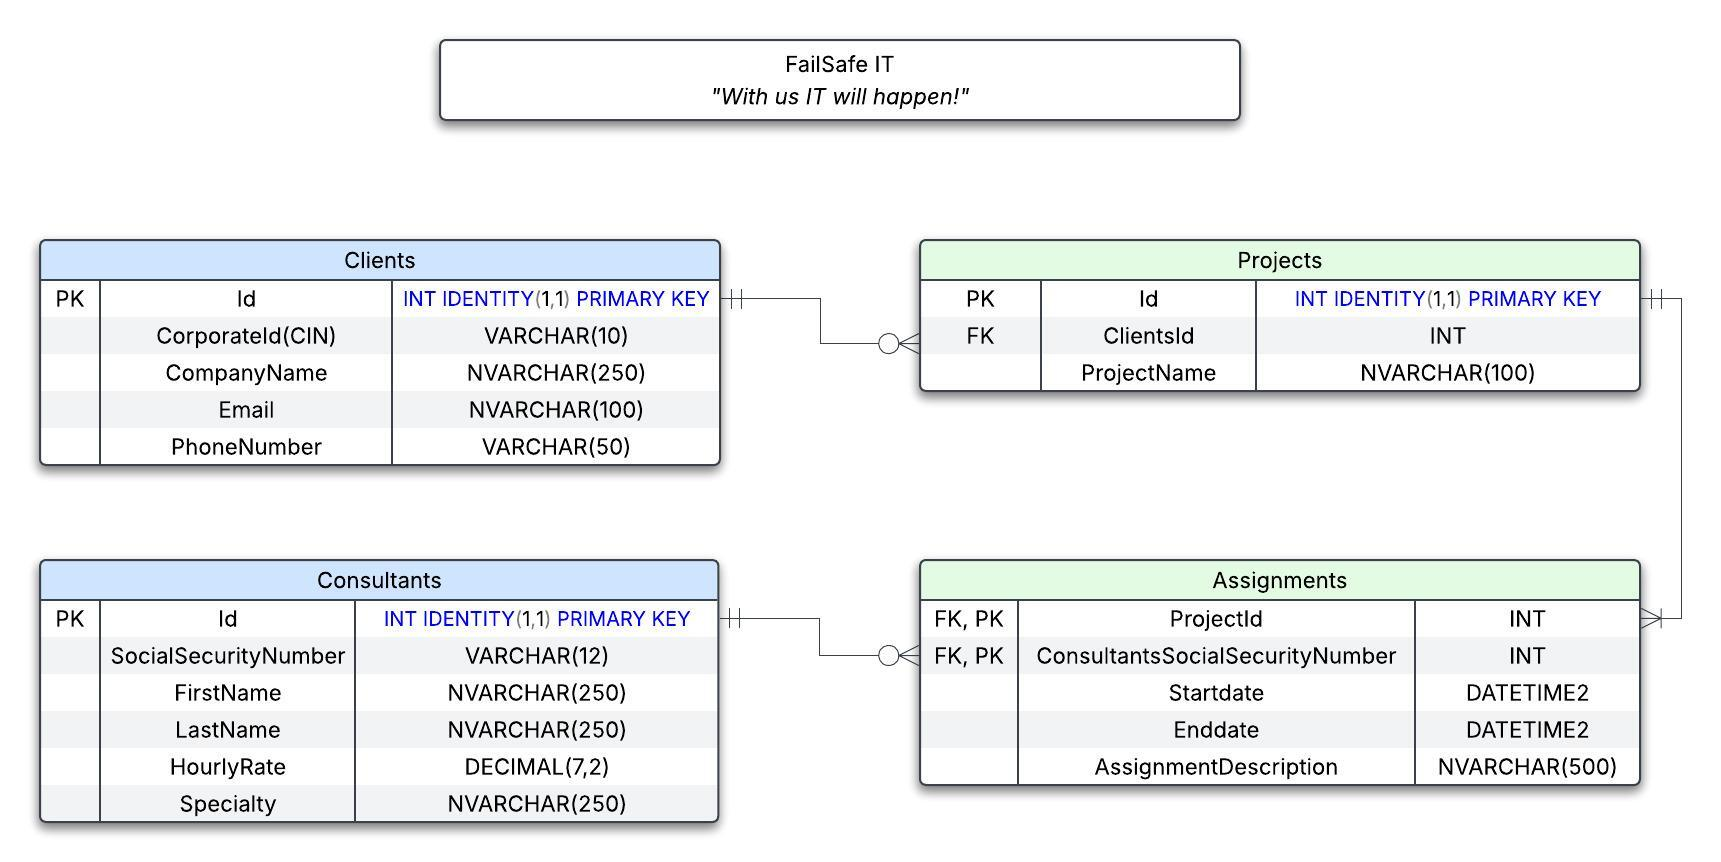
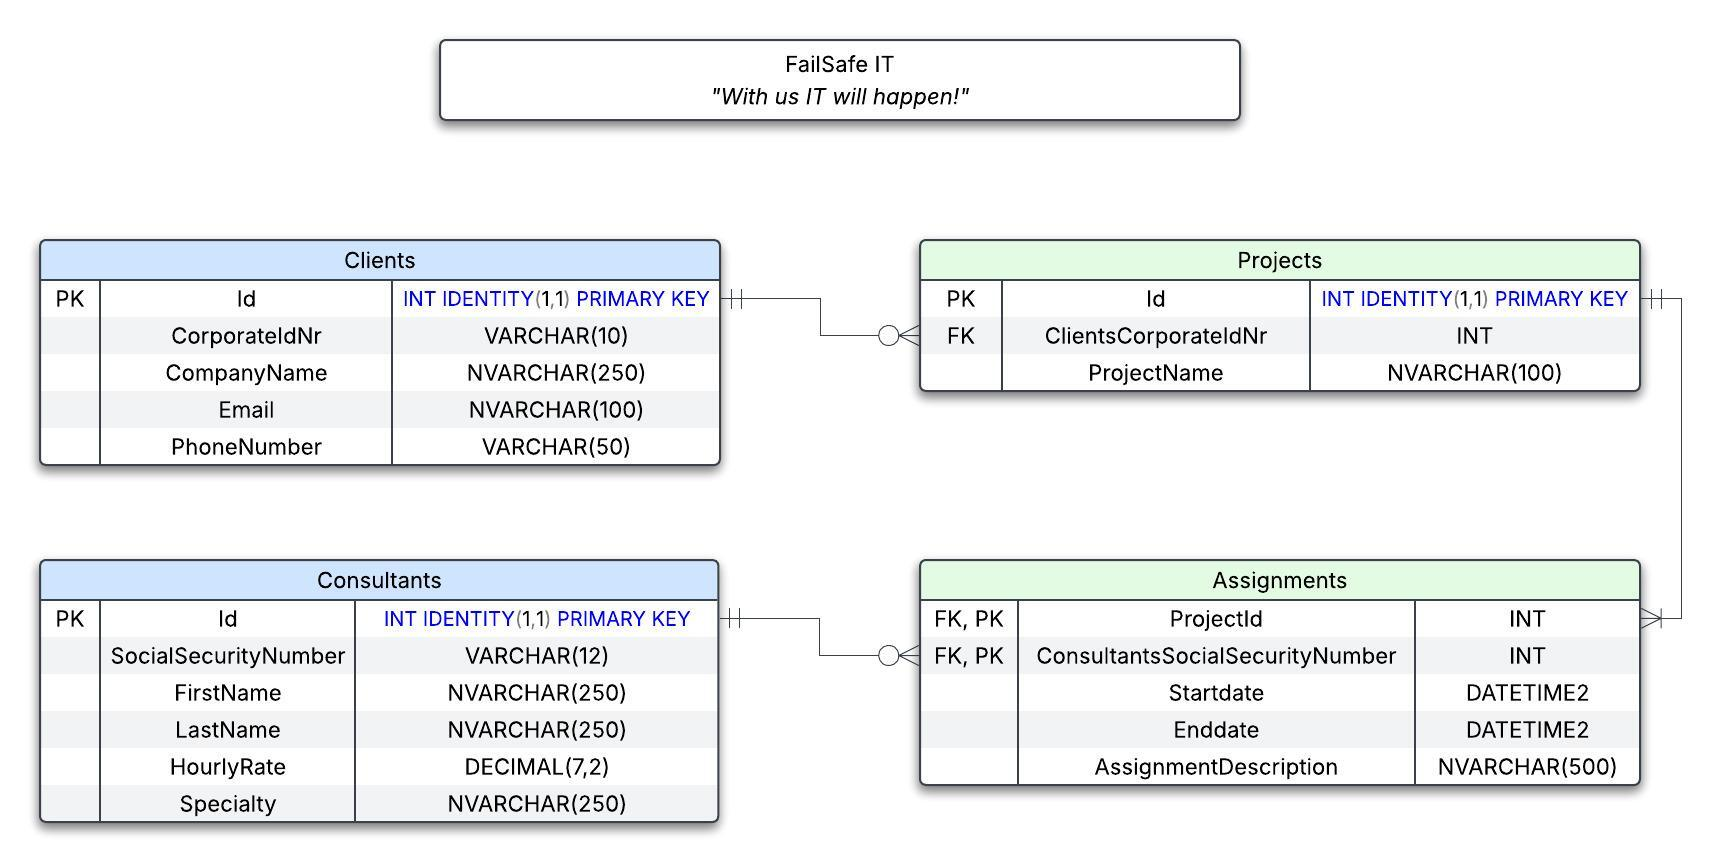
Updated table creation with correct PK and FK setup

diff --git a/ProjectDiary.md b/ProjectDiary.md
@@ -1,0 +1,58 @@
+# 10/11 
+Börjar med att sätta upp mitt Lucidchart och fundera på relationer mellan entites. 
+Jag tar bort min relationship mellan kund och konsult eftersom jag har en bridge table i uppdrag.
+
+My custom list of titles: Software Developer, Web Developer, Blockchain Engineer, Cloud Engineer, DevOps Engineer, Systems Administrator, Network Administrator, Cybersecurity Analyst, IT Support Specialist, Quality Assurance, IT Project Manager, Business Analyst
+
+## Checking table normalization levels:
+#### Konsulter
+###### 1NF
+- [x] Row order must be random, 
+- [x] One column can only contain one datatype 
+- [x] The table must have a [[Primary Key]]
+- [x] Storing a repeating group of data items on a single row violates First Normal Form
+###### 2NF
+ - [x] Eliminera partiella beroenden - Each non-key attribute must depend on the entire primary key.
+###### 3NF
+ - [x] Every non-key attribute in a table should depend on only the key.
+#### Kunder
+###### 1NF
+- [x] Row order must be random, 
+- [x] One column can only contain one datatype 
+- [x] The table must have a [[Primary Key]]
+- [x] Storing a repeating group of data items on a single row violates First Normal Form
+###### 2NF
+ - [x] Eliminera partiella beroenden - Each non-key attribute must depend on the entire primary key.n?
+###### 3NF
+ - [x] Every non-key attribute in a table should depend on only the key.
+
+#### Uppdrag
+###### 1NF
+- [x] Row order must be random, 
+- [x] One column can only contain one datatype 
+- [x] The table must have a [[Primary Key]]
+- [x] Storing a repeating group of data items on a single row violates First Normal Form
+###### 2NF
+ - [x] Eliminera partiella beroenden - Each non-key attribute must depend on the entire primary key: Slutdatumet beror ju på startdatumet... 
+###### 3NF
+ - [x] Every non-key attribute in a table should depend on only the key.
+
+# 12/11
+I am switching to English in the ERD and code but I will probably switch back and forth here, as it is my preferred way of writing. I reacted to what Claes said in the lesson yesterday, that the tables should have a one-to-many relationship with each other, and that makes sense between Clients and Projects (Uppdrag) but I am struggling to see how that would work between Projects and Consultants. One project can have many consultants and one consultant can have many projects. Should I insert *another* coupling table between them? I am discussing with Linnea and Stig and know they haven't, so what am I missing? I and Stig went over it again and we agreed on that we need another junction table. 
+Tables updated in LucidChart, adjusted a few times and ran in SSMS, it seems to be working fine. 
+
+# 13/11
+Friday the Thirteenth and we start of with some good luck - child is well enough to go to preschool, so today I will be able to focus more on the assignment.
+Going to start with checking the normalization on my new tables, then I will look into the SQL queries, I got the reset and setup done yesterday but not sure I got my keys correctly set up.
+- [x] Check normalization
+- [ ] Verify PK and FK work as intended
+- [ ] Check other query requirements.
+
+Okay, trying to insert into the Project table I got the following error:
+The INSERT statement conflicted with the FOREIGN KEY constraint "FK_Projects_ClientsCorporateIdNr". The conflict occurred in database "FailSafeIT_Assignment1", table "dbo.Clients", column 'Id'.
+The statement has been terminated.
+Which I suspect is related to Lucidcharts setup of the column. It added a lot of nice constraints based on my key, but I barely understand keys so having someone add it for me makes it difficult to error proof. I assume it is becuase the keys are for LucidCharts (LC) own PK and not the one I setup. So will have to modify accordingly. 
+Trying to figure out these FKs manually, learning a lot in the process. Managed to figure out how to add a column after creation all on my own. 
+`ALTER TABLE Projects ADD [ProjectName] NVARCHAR(100);`
+Always fun with som good old fashioned trial and error. 
+Lesson of the day: Well-indexed notes are really handy when you need to find out which lesson we went through what keyword. Needed to look up composite primary keys based on foreign keys and thanks to my previous notetaking I could find it quickly and check my comments in the code from the lesson and figure out how to set it up. 
